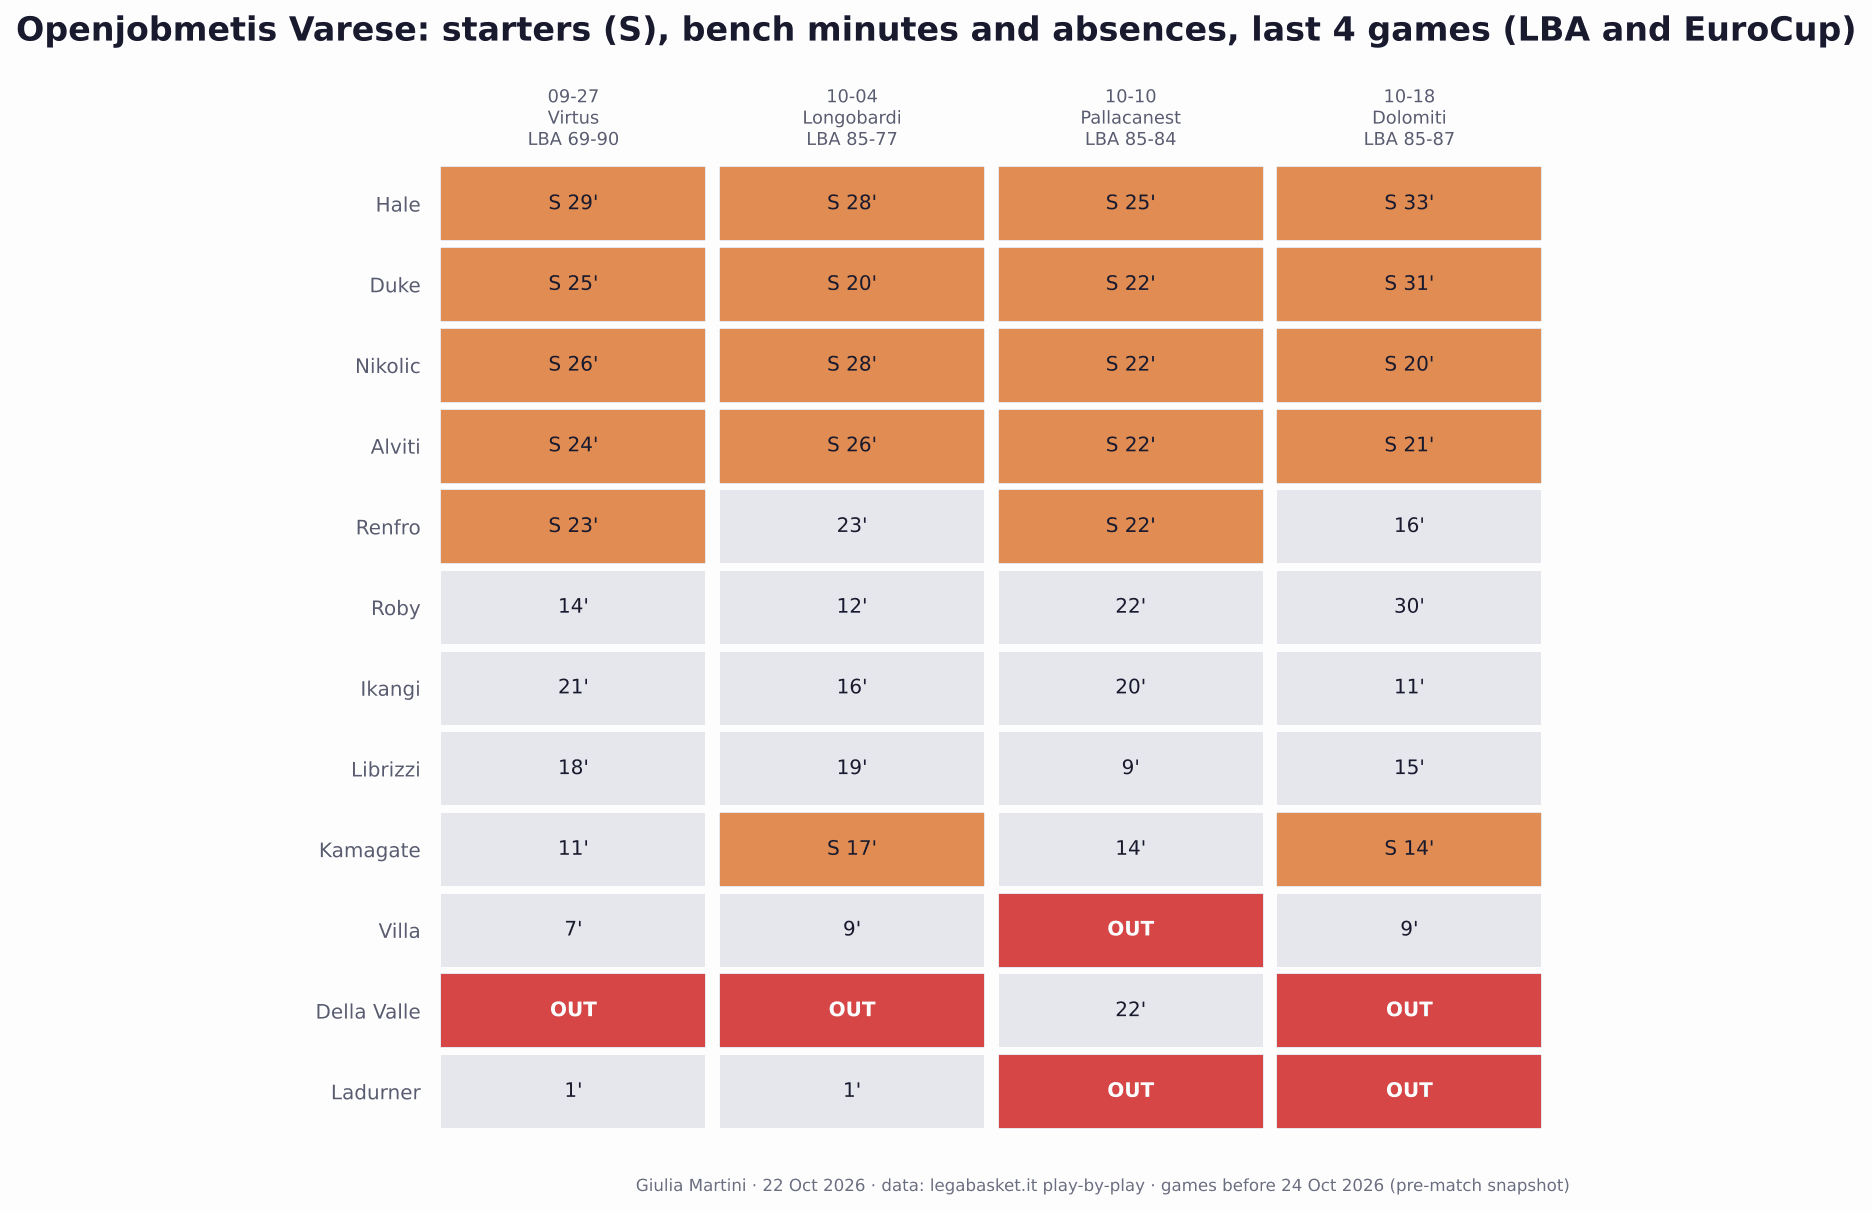
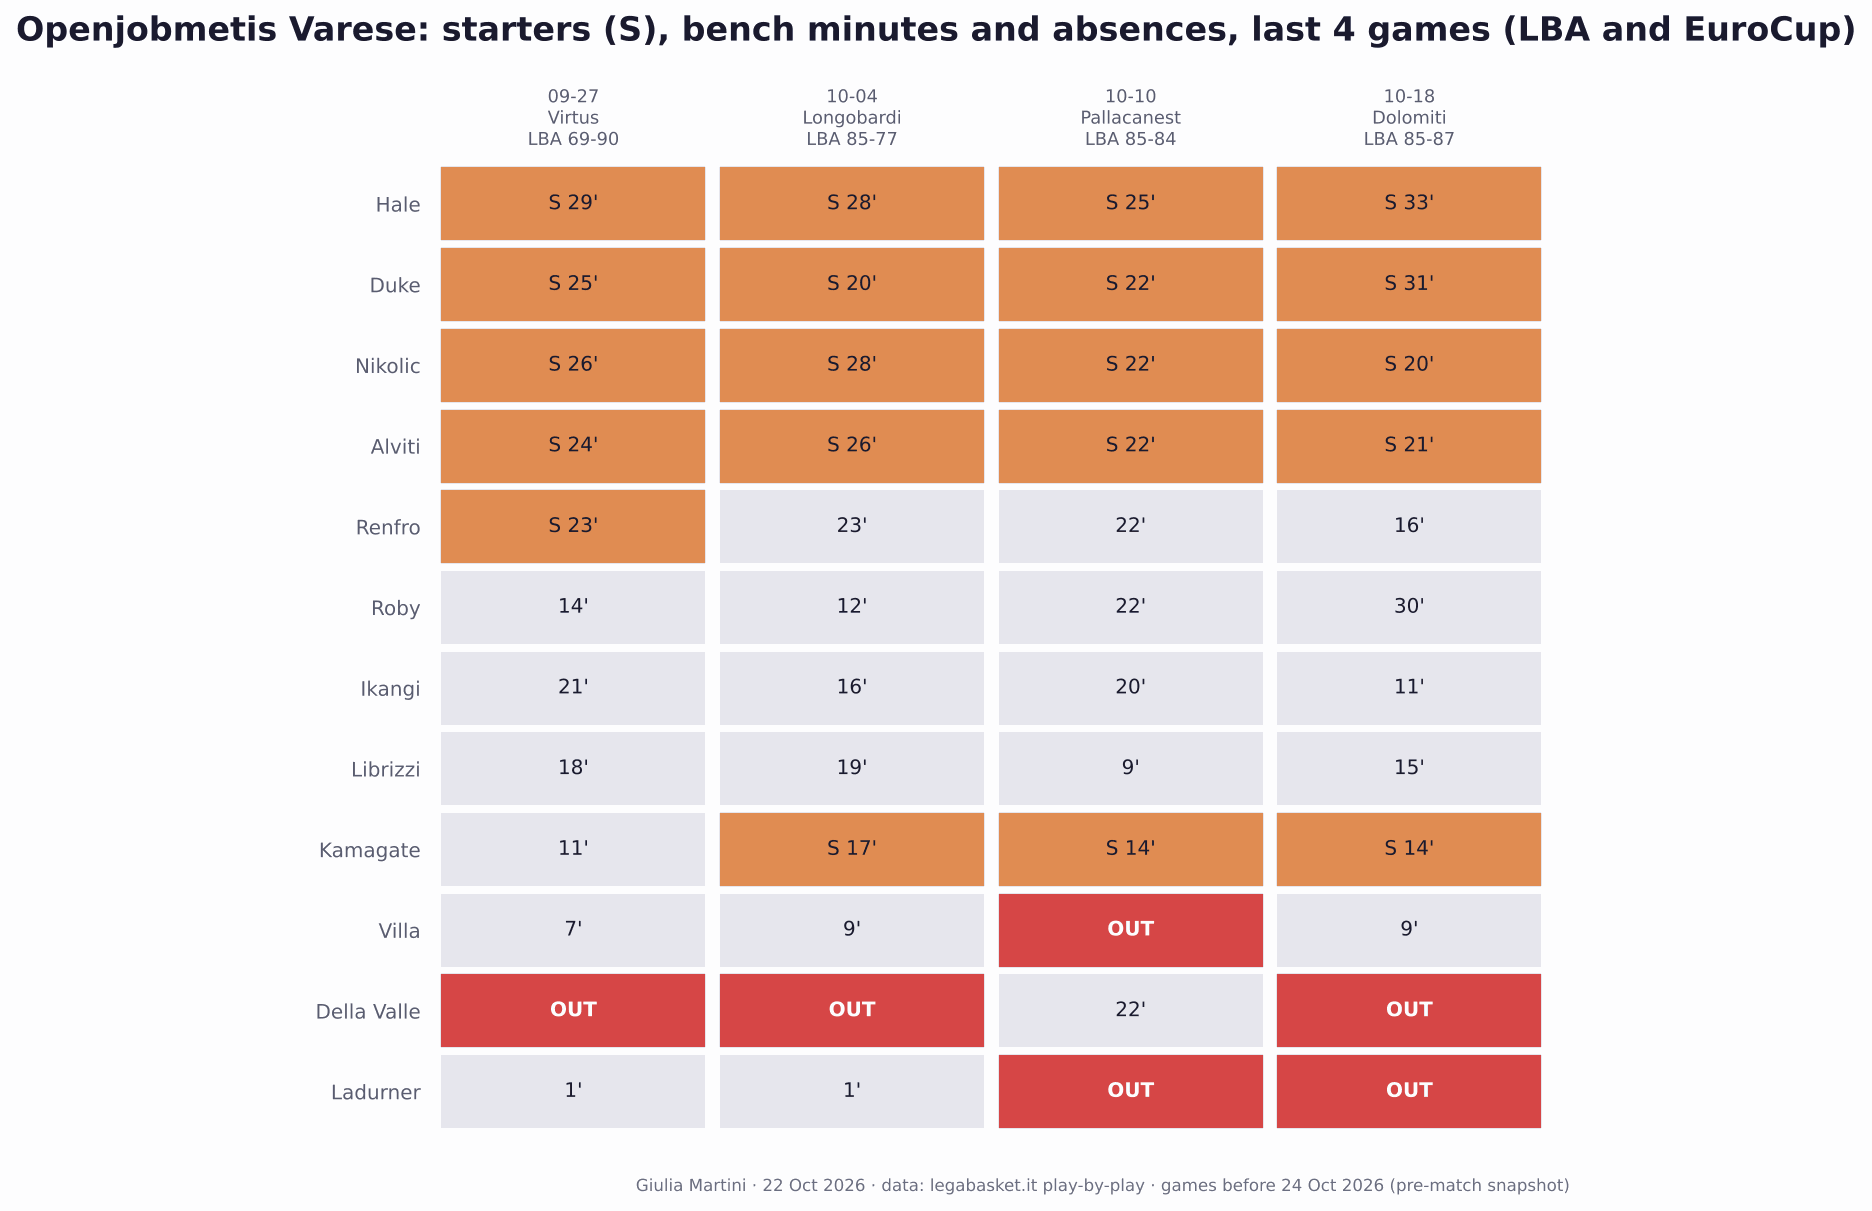
Fix Varese starting five vs Trieste: Kamagate started, not Renfro
The box score sf flag is wrong for game 25381; the play-by-play has Kamagate in
for Renfro at 10:00 of Q1. Add data/starter_overrides.csv, applied when the box
scores are loaded, and regenerate the Varese analysis figures (starting fives,
starters vs bench, minutes).

Claude-Session: https://claude.ai/code/session_013vJ5owzYezyQWBN1gT5u4G

Changed region(s): [[0.5267, 0.3972, 0.6816, 0.4889], [0.5267, 0.6722, 0.6816, 0.7333]]

diff --git a/notebooks/weekly_sections.py b/notebooks/weekly_sections.py
@@ -16,7 +16,7 @@ import pandas as pd
 import lba_style
 import weekly_config
 from lba_style import GREEN, LEAGUE, SUP_KW, TEXT, TEXT2, TITLE_KW, save_fig, shots_cm, style_axes, team_color
-from matchup_report import parse_eurocup, plot_zone_heatmap, zone_stats
+from matchup_report import apply_starter_overrides, parse_eurocup, plot_zone_heatmap, zone_stats
 
 ROOT = Path(__file__).resolve().parent.parent
 TEAM = weekly_config.load()["team"]
@@ -31,7 +31,7 @@ MIN_PLAYED, ABS_UP, REL_UP = 8 * 60, 7 * 60, 0.30
 # ── data ────────────────────────────────────────────────────────────────────────
 def load_box(data: Path, upto_round: int, upto_date: str, eurocup_file: str = "") -> pd.DataFrame:
     """LBA player/total rows (all teams, rounds <= upto_round) + EuroCup rows (all teams in the file, date <= upto_date)."""
-    lba = pd.read_csv(data / "box_scores.csv")
+    lba = apply_starter_overrides(pd.read_csv(data / "box_scores.csv"), data)
     lba = lba[lba["round"] <= upto_round].copy()
     lba["competition"] = "LBA"; lba["date"] = lba.match_datetime.str[:10]; lba["game_id"] = lba.game_id.astype(str)
     ec_path = ROOT / eurocup_file if eurocup_file else None

diff --git a/notebooks/matchup_report.py b/notebooks/matchup_report.py
@@ -132,9 +132,19 @@ def parse_eurocup(path: Path) -> tuple[pd.DataFrame, pd.DataFrame]:
 
 
 # ── LBA tables ──────────────────────────────────────────────────────────────────
+def apply_starter_overrides(box: pd.DataFrame, data: Path) -> pd.DataFrame:
+    """Starter flags of data/starter_overrides.csv (game_id, player_surname, starter): box scores checked against the play-by-play."""
+    fix = data / "starter_overrides.csv"
+    if fix.exists():
+        for r in pd.read_csv(fix).itertuples():
+            box.loc[(box.game_id == r.game_id) & (box.player_surname == r.player_surname) & (box.row_type == "player"), "starter"] = r.starter
+    return box
+
+
 def load_lba(data: Path):
     games = pd.read_csv(data / "games.csv")
     box = pd.read_csv(data / "box_scores.csv"); box["competition"] = "LBA"
+    box = apply_starter_overrides(box, data)
     pbp = pd.read_csv(data / "pbp.csv")
     tot = box[box.row_type == "total"][["game_id", "team", "pts"]]
     opp = tot.rename(columns={"team": "opponent", "pts": "opp_pts"})
